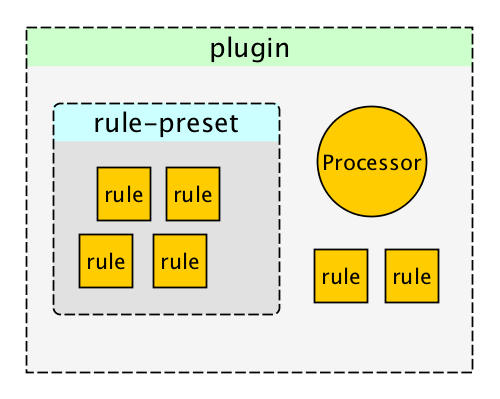
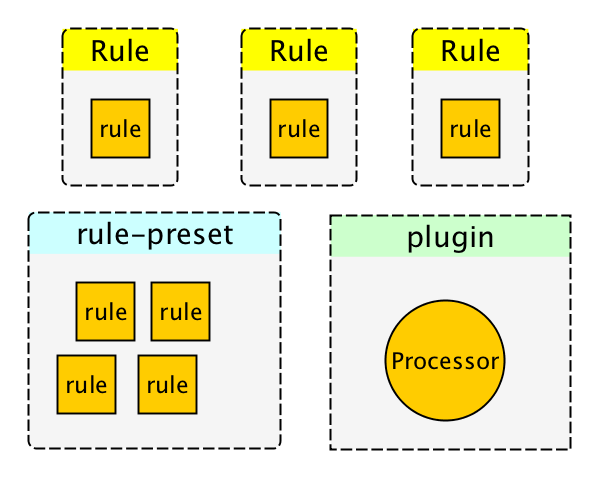
docs(plugin): no more plugin contains rules

diff --git a/README.md b/README.md
@@ -395,7 +395,7 @@ textlint has four extensible points:
 - [rule-preset](docs/rule-preset.md)
     - rule-preset contains rules.
 - [plugin](docs/plugin.md)
-    - plugin contains rules and a processor.
+    - plugin contains a processor.
 
 ![rule-preset-plugin](docs/resources/rule-preset-plugin.png)
 
